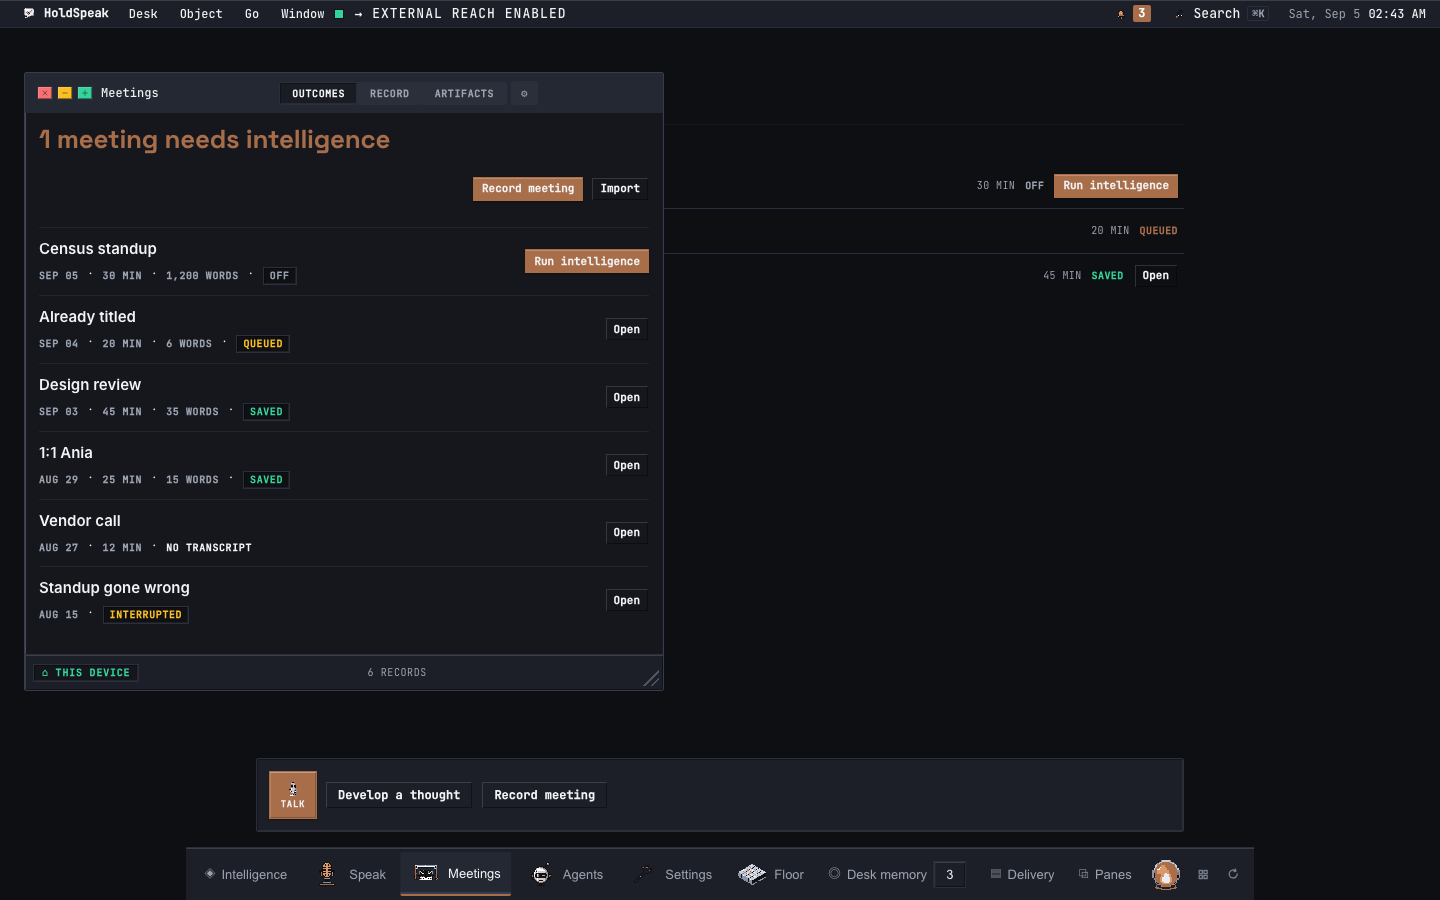
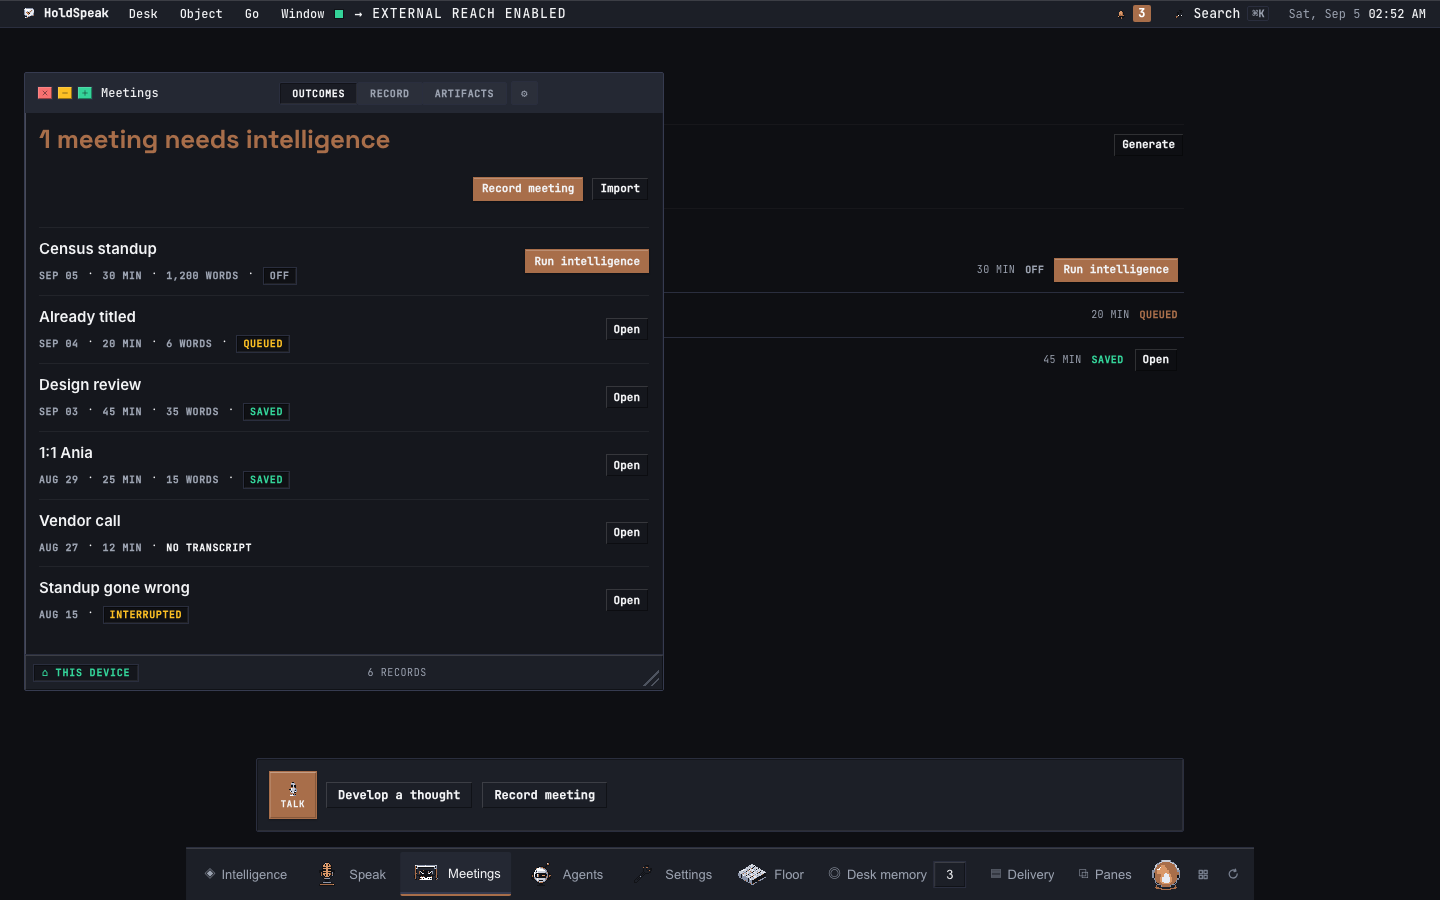
fix(face): HS-170-04 — Meetings: the host chip rides the running row (Article III); Decide / Dismiss per the board; the rig waits on conditions (counsel S-3, S-5, S-4)
Claude-Session: https://claude.ai/code/session_016siGSBgZph9EhEdGMoyWcu
PMO-Story: HS-170-04
PMO-Contract-Digest: sha256:7eaca8f057e6e089f6281e25bc55e3ae34b1caa572e0f0baba47e603b0537ce7

Changed region(s): [[0.6875, 0.1556, 0.8438, 0.4044]]

diff --git a/web/src/pages/cores/history/useMeetingData.tsx b/web/src/pages/cores/history/useMeetingData.tsx
@@ -226,7 +226,7 @@ export function useMeetingData(
                   title={String(commitment?.approve ?? "")}
                   onClick={() => void decide(row, "approved")}
                 >
-                  Approve
+                  Decide
                 </Button>
                 <Button
                   dense
@@ -234,7 +234,7 @@ export function useMeetingData(
                   title={String(commitment?.reject ?? "")}
                   onClick={() => void decide(row, "rejected")}
                 >
-                  Reject
+                  Dismiss
                 </Button>
               </>
             ) : (

diff --git a/tests/e2e/test_hs170_meetings_glass.py b/tests/e2e/test_hs170_meetings_glass.py
@@ -219,7 +219,7 @@ class TestMeetingsGlass:
         self.tmp_path = tmp_path
 
     def test_meetings_face(self) -> None:
-        from playwright.sync_api import sync_playwright
+        from playwright.sync_api import sync_playwright, expect
 
         errors: list[str] = []
         with sync_playwright() as pw:
@@ -241,12 +241,12 @@ class TestMeetingsGlass:
                 found = _wait_for_surface_window(page, timeout=12000)
                 assert found, f"Meetings surface window did not open at {width}"
 
-                page.wait_for_timeout(1500)
+                # Wait for data to render (headline is the signal)
+                headline = page.locator("[data-testid='meetings-headline']")
+                headline.wait_for(timeout=8_000)
                 _settle(page)
 
                 # ── Assert: headline ──
-                headline = page.locator("[data-testid='meetings-headline']")
-                headline.wait_for(timeout=5_000)
                 headline_text = headline.text_content() or ""
                 assert "1" in headline_text and "intelligence" in headline_text.lower(), (
                     f"Headline at {width}: expected '1 ... intelligence', got '{headline_text}'"
@@ -254,16 +254,14 @@ class TestMeetingsGlass:
 
                 # ── Assert: Run intelligence on OFF-with-words row ──
                 run_btns = page.locator("[data-testid='run-intelligence-btn']")
-                run_btn_count = run_btns.count()
-                assert run_btn_count == 1, (
-                    f"Expected exactly 1 'Run intelligence' at {width}, got {run_btn_count}"
+                expect(run_btns.first).to_be_visible(timeout=5_000)
+                assert run_btns.count() == 1, (
+                    f"Expected exactly 1 'Run intelligence' at {width}, got {run_btns.count()}"
                 )
 
                 # ── Assert: NO TRANSCRIPT renders ──
                 no_transcript = page.locator("[data-testid='no-transcript-token']")
-                assert no_transcript.count() >= 1, (
-                    f"'NO TRANSCRIPT' token not found at {width}"
-                )
+                expect(no_transcript.first).to_be_visible(timeout=3_000)
 
                 # ── Assert: 0 SEG never appears ──
                 win = page.locator(".desk-surface-window")
@@ -276,7 +274,6 @@ class TestMeetingsGlass:
                 assert "INTERRUPTED" in page_text, (
                     f"'INTERRUPTED' not found at {width} for dead capture"
                 )
-                # REC must never appear as a state token (only INTERRUPTED)
                 state_tokens_text = page.evaluate("""() => {
                     const body = document.querySelector('.desk-surface-body');
                     if (!body) return '';
@@ -312,19 +309,27 @@ class TestMeetingsGlass:
                 )
 
                 if width == 1440:
-                    # ── Click Run intelligence ──
+                    # ── S-3: Click Run intelligence, assert host chip (Article III) ──
                     run_btns.first.click()
-                    page.wait_for_timeout(500)
+                    # The monkeypatch returns host="THIS DEVICE"; the
+                    # EgressChip should appear on the row after the POST.
+                    host_chip = page.locator(
+                        "[data-testid='meeting-row-m-off-words'] .gadget-chip-egress"
+                    )
+                    expect(host_chip).to_be_visible(timeout=5_000)
 
                     # ── Click Design review to open detail ──
-                    design_row = page.locator("[data-testid='meeting-row-m-saved-outcomes']")
-                    design_row.locator(".meetings-stream-row-body").click()
-                    page.wait_for_timeout(2000)
+                    design_body = page.locator(
+                        "[data-testid='meeting-row-m-saved-outcomes'] "
+                        ".meetings-stream-row-body"
+                    )
+                    design_body.click()
+
+                    # Wait for detail to render (the display title is the signal)
+                    detail_display = page.locator(".surface-split-detail .surface-display")
+                    detail_display.wait_for(timeout=8_000)
                     _settle(page)
 
-                    # Assert: detail has a display element
-                    detail_display = page.locator(".surface-split-detail .surface-display")
-                    detail_display.wait_for(timeout=5_000)
                     detail_text = detail_display.text_content() or ""
                     assert "Design review" in detail_text, (
                         f"Detail display expected 'Design review', got '{detail_text}'"
@@ -332,6 +337,7 @@ class TestMeetingsGlass:
 
                     # Assert: NEEDS YOU 3 with 3 outcome rows
                     needs_head = page.locator(".meetings-detail-needs-head .surface-caption")
+                    expect(needs_head).to_be_visible(timeout=5_000)
                     needs_text = needs_head.text_content() or ""
                     assert "3" in needs_text, (
                         f"Expected 'NEEDS YOU 3', got '{needs_text}'"
@@ -340,13 +346,18 @@ class TestMeetingsGlass:
                     assert outcome_rows.count() == 3, (
                         f"Expected 3 outcome rows, got {outcome_rows.count()}"
                     )
-                    # Each outcome row should have a verb (Approve/Reject buttons)
-                    outcome_verbs = page.locator(".meetings-detail-outcome-verb .btn")
-                    assert outcome_verbs.count() >= 3, (
-                        f"Expected >= 3 verb buttons, got {outcome_verbs.count()}"
+
+                    # S-5: Each outcome row has Decide / Dismiss verbs
+                    decide_btns = page.locator(".meetings-detail-outcome-verb .btn", has_text="Decide")
+                    dismiss_btns = page.locator(".meetings-detail-outcome-verb .btn", has_text="Dismiss")
+                    assert decide_btns.count() == 3, (
+                        f"Expected 3 'Decide' buttons, got {decide_btns.count()}"
+                    )
+                    assert dismiss_btns.count() == 3, (
+                        f"Expected 3 'Dismiss' buttons, got {dismiss_btns.count()}"
                     )
 
-                    # Assert: proposal preview text renders (not "Proposed action")
+                    # Assert: proposal preview text renders
                     detail_text_full = page.locator(".surface-split-detail").text_content() or ""
                     assert "Decide: the PostgreSQL migration date" in detail_text_full, (
                         f"Expected proposal preview text in detail, got: {detail_text_full[:200]}"
@@ -359,6 +370,7 @@ class TestMeetingsGlass:
                     )
 
                     # Screenshot: detail
+                    _settle(page)
                     page.screenshot(
                         path=str(SHOTS_DIR / f"build-meetings-detail-{width}.png"),
                         full_page=True,
